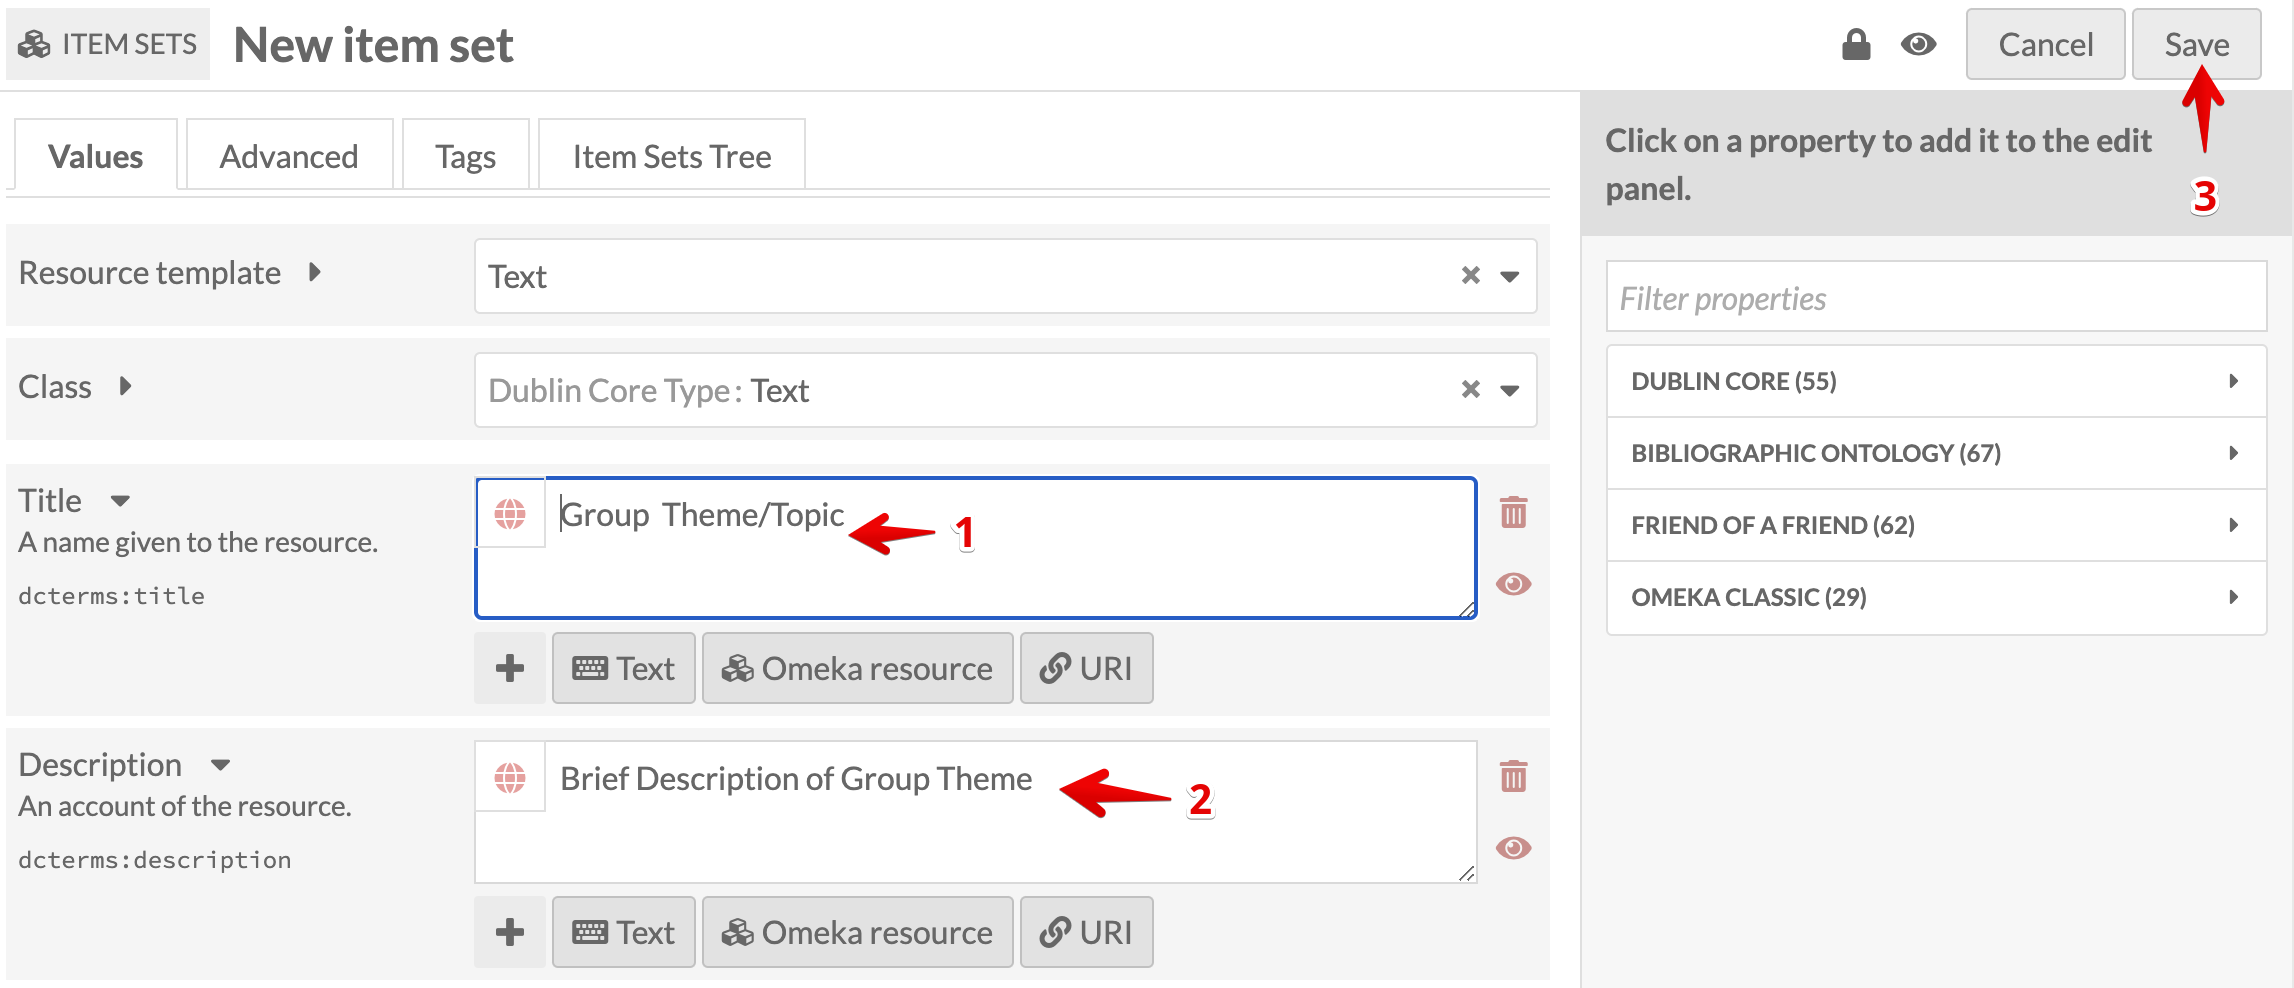
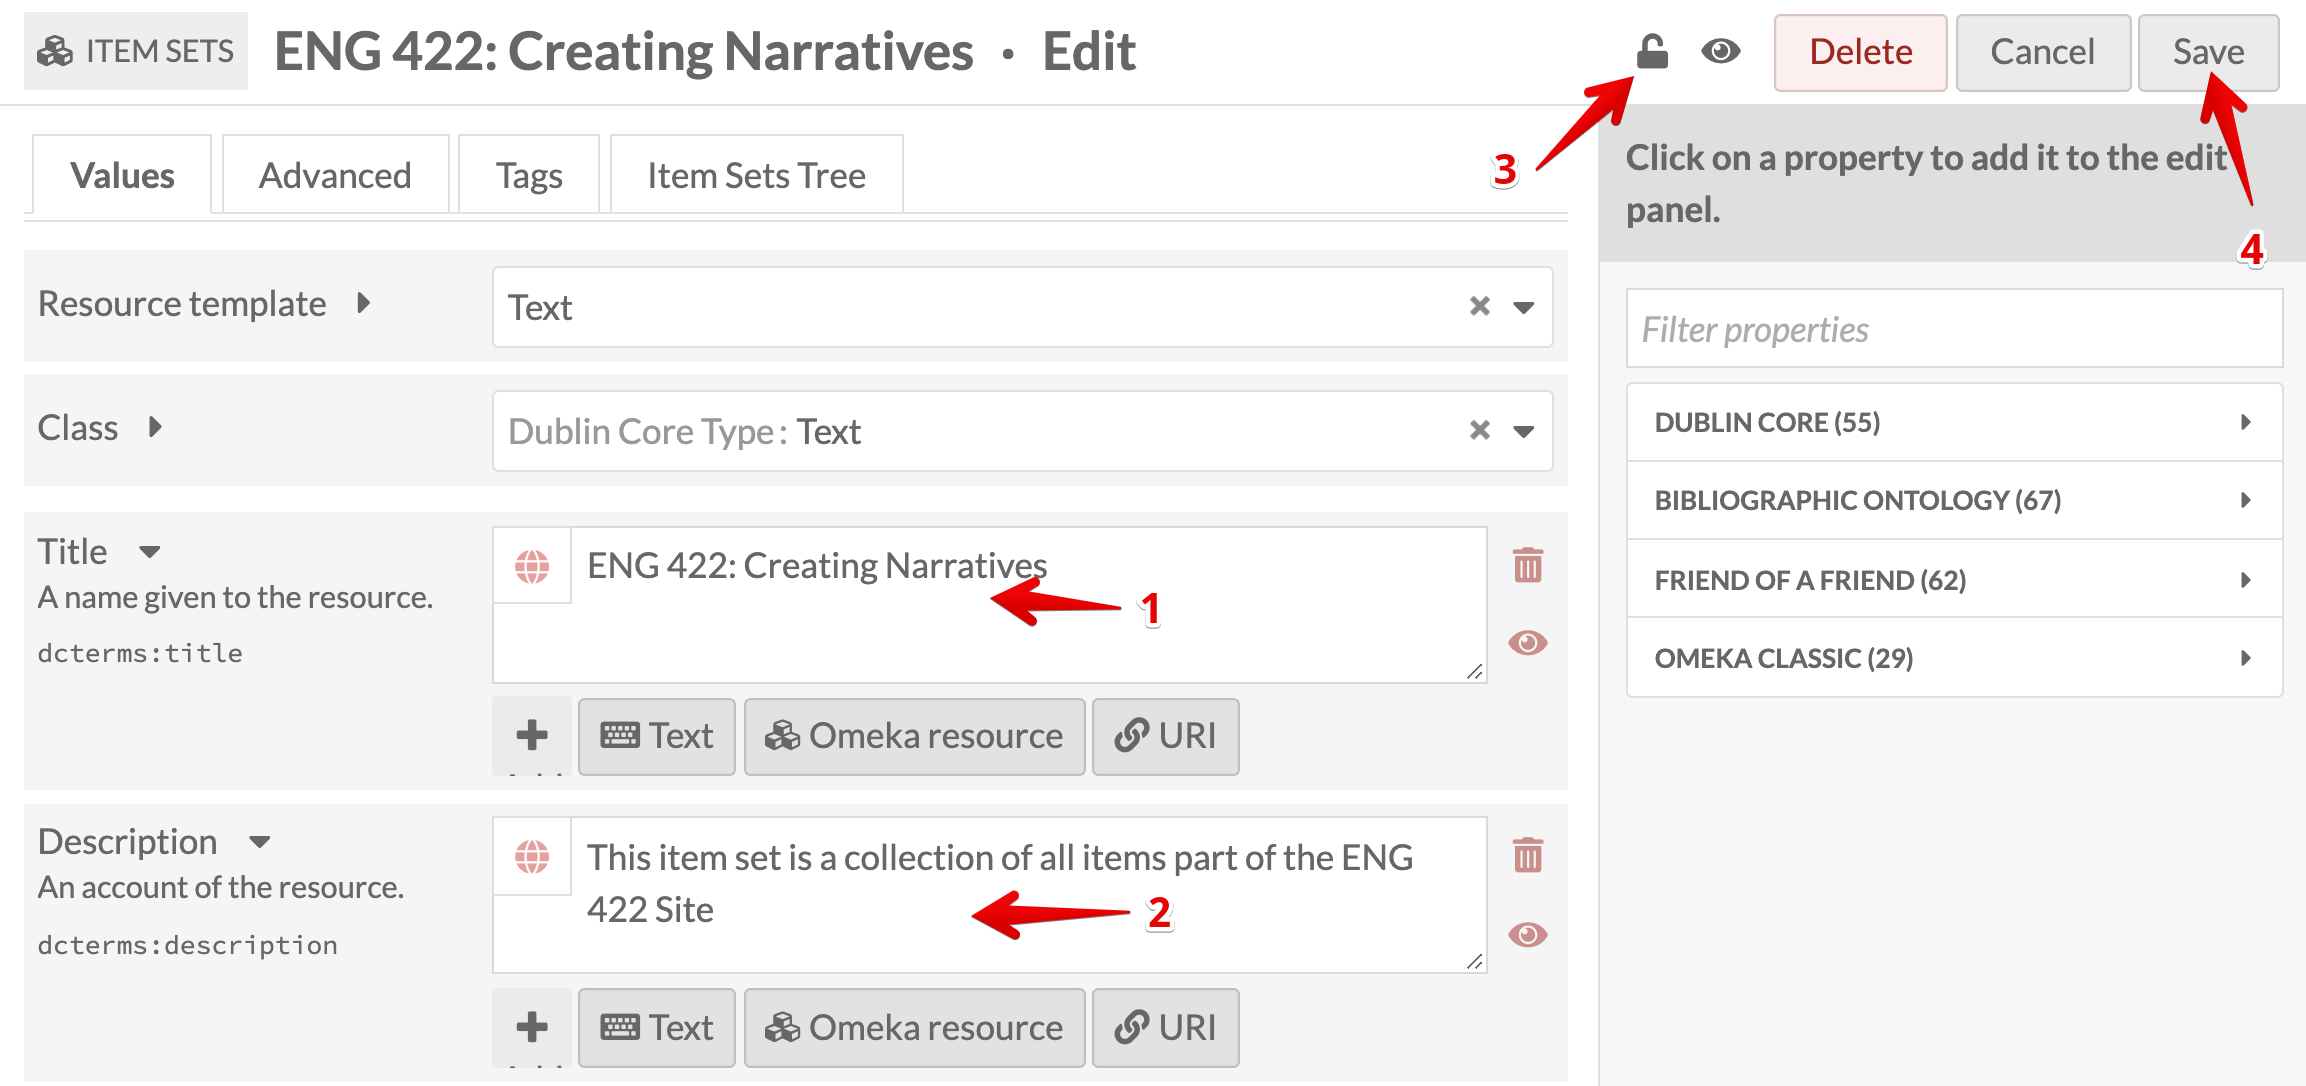
Added page on timeline-specific guidance

diff --git a/Timeline_Config_Block.md b/Timeline_Config_Block.md
@@ -1,0 +1,79 @@
+# Add Timeline Data to Items and Add a Timeline Block to a Page
+<!-- no toc -->
+## Davidson Context
+<!-- no toc -->
+This page is intended to give guidance on adding timelimes to pages through the Timeline Modules, with Knightlab configurations.
+
+## Overview of Process
+
+- [Date Value in Item](#date-value-in-item)
+- [Add Timeline Block to Page](#add-timeline-block-to-page)
+  - [Timeline Title](#timeline-title)
+  - [Start Timeline at Slide 1](#start-timeline-at-slide-1)
+  - [Limit Timeline Resources to Item Set](#limit-timeline-resources-to-item-set)
+  - [Set Timeline Library to Knightlab](#set-timeline-library-to-knightlab)
+  - [Save and View for Accessibility](#save-and-view-for-accessibility)
+
+___
+
+### Date Value in Item
+
+As long as the item has a date in the dcterms:date value field, that's all that's needed for the Timeline block to work on a page. Use YEAR-MO-DY format for dates. If it only has a year, then put the full four-digit year, e.g., 1976.
+
+![Item Date Format](./help_files/Timeline_Date_Format.png "Timeline Item Date")
+*Item Date Format*
+
+### Add Timeline Block to Page
+
+Adding the Timeline block to a page is easy, but there are a few steps to configure it right.
+
+#### Timeline Title
+
+Give it a title to display above the timeline.
+
+![Timeline Title](./help_files/Timeline_Title.png "Timeline Title")
+*Timeline Title*
+
+#### Start Timeline at Slide 1
+
+In the Viewer value field, enter the following CSS
+`{"start_at_slide": "1",}`
+
+Since there's not "title slide" like in standard TimelineJS, starting at slide/item 1 is good practice.
+
+![Viewer options for starting at slide 1](./help_files/Timeline_Start_Slide_1.png "Viewer options for starting at slide 1")
+*Viewer options for starting at slide 1*
+
+#### Limit Timeline Resources to Item Set
+
+Click on the Item set to get your unique number from the URL to paste into the Timeline block query. You only need the number after `item-set/`
+
+![Item Set unique number for Timeline block query](./help_files/Item_Set_Timeline_Block.png "Item Set Query")
+*Item Set Unique Number for Timeline block query*
+
+The format to put in the Timeline block options is as follows:
+`item_set_id=xx`
+
+![Item Set query for Timeline block options](./help_files/TImeline_Item_Set_Query.png "Item Set query for Timeline block options")
+*Item Set query for Timeline block options*
+
+#### Set Timeline Library to Knightlab
+
+Set the Timeline Library to Knightlab instead of Simile.
+
+![Set Timeline to Knightlab library](./help_files/Timeline_Knightlab.png "Set Timeline to Knightlab library")
+*Set Timeline library to Knightlab*
+
+#### Save and View for Accessibility
+
+Save and view to confirm both the item set is being displayed correctly and it's start at the first item in the set (by year).
+
+![Save and Display Timeline block](./help_files/Timeline_Save_View.png "Save and View the Timline")
+*Save and View the Page to Verify work*
+
+Run a [WAVE test](https://wave.webaim.org/) to check for missing alt text, or other accessibility errors. If you have 0 errors, "check mark" the appropriate columns in the GSheet tracker.
+
+![Wave Test Screenshot](./help_files/WAVE_Test.png "Wave Test")
+*Wave Test*
+
+If an item's media is missing a description, then no alt-text will appear and get flagged. Check how to [add media description on my other guide](https://github.com/Davidson-Library/Omeka-S/blob/main/Omeka_S_ENG422_Project.md#add-media-description).

diff --git a/Omeka_S_ENG422_Project.md b/Omeka_S_ENG422_Project.md
@@ -37,7 +37,7 @@ Create a new Item Set by clicking on **Item Sets** under the **Resources** menu 
 ![Add New Item Set Button](./help_files/Item_Set_Add_New.png "Add New Item Set Button")
 *Add New Item Set Button*
 
-Make sure the Resource Template is **"Text."** Fill in the **Title and Description** and click **Save**.
+Make sure the Resource Template is **"Text."** Fill in the **Title and Description**, **"unlock" the set** for others to add to, and click **Save**.
 
 ![New Item Set Information](./help_files/Item_Set_New_Save.png "New Item Set Save")
 *Fill in Item Set Info and Save*
